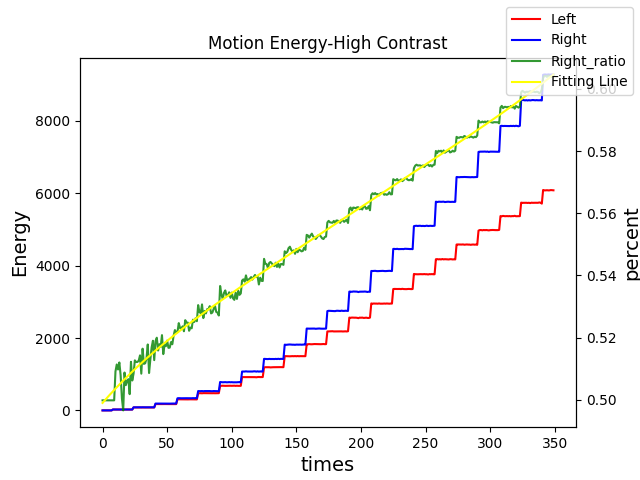
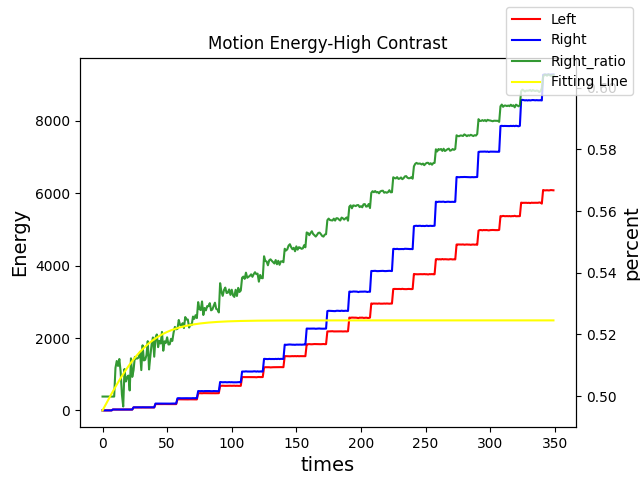
Naka-Rushton

diff --git a/input/input_function_high.py b/input/input_function_high.py
@@ -18,38 +18,39 @@ high_contrast_ratio[9:]=(high_contrast[9:,1])/(high_contrast[9:,0]+high_contrast
 high_contrast_ratio[0:9]=high_contrast_ratio[9]
 
 
-def objective(x, R_max, c_1,c_2,b):
-	return R_max*(c_1**x/(c_2**x+c_1**x))+b
+def objective(x, R_max, c_1,c_2):
+	return R_max*(c_1**x/(c_2**x+c_1**x))+0.5245574511312125
 
 x=[0 + x*(low_contrast_ratio.shape[0]-0)/low_contrast_ratio.shape[0] for x in range(low_contrast_ratio.shape[0])]
 x=np.asarray(x)
-popt, _ = curve_fit(objective, x, low_contrast_ratio)
+popt, _ = curve_fit(objective, x, high_contrast_ratio)
 
-R_max, c_1,c_2,b = popt
+R_max, c_1,c_2 = popt
+
 print(R_max)
-print(b)
+
 mymodel = np.poly1d(np.polyfit(x, low_contrast_ratio,5))
 
 fig, ax = plt.subplots()
 
 ccc=['blue','red','green','brown','yellow']
 #plt.plot(time,smoothing(ts_transformed.T[0],50),'blue',label='pc1-'+str(pca.explained_variance_ratio_[0]),markersize=3)
-ax.plot(low_contrast[:,0],ccc[1],label='Left',markersize=3)
-ax.plot(low_contrast[:,1],ccc[0],label='Right',markersize=3)
+ax.plot(high_contrast[:,0],ccc[1],label='Left',markersize=3)
+ax.plot(high_contrast[:,1],ccc[0],label='Right',markersize=3)
 
 #plt.title('Before stress: PC (smoothing =50)')
 ax.set_xlabel('times',fontsize=14)
 ax.set_ylabel('Energy',fontsize=14)
 
 ax2=ax.twinx()
-ax2.plot(low_contrast_ratio,ccc[2],label='Right_ratio',markersize=3,alpha=0.8)
-print(objective(x,R_max, c_1,c_2,b))
-ax2.plot(objective(x,R_max, c_1,c_2,b),ccc[4],label='Fitting Line',markersize=3)
+ax2.plot(high_contrast_ratio,ccc[2],label='Right_ratio',markersize=3,alpha=0.8)
+print(objective(x,R_max, c_1,c_2))
+ax2.plot(objective(x,R_max, c_1,c_2),ccc[4],label='Fitting Line',markersize=3)
 ax2.set_ylabel("percent",fontsize=14)
 fig.legend()
-plt.title('Motion Energy-Low Contrast')
+plt.title('Motion Energy-High Contrast')
 plt.show()
 
 
-fig.savefig('./low_contrast.png')
+fig.savefig('./high_contrast.png')
 plt.show()
